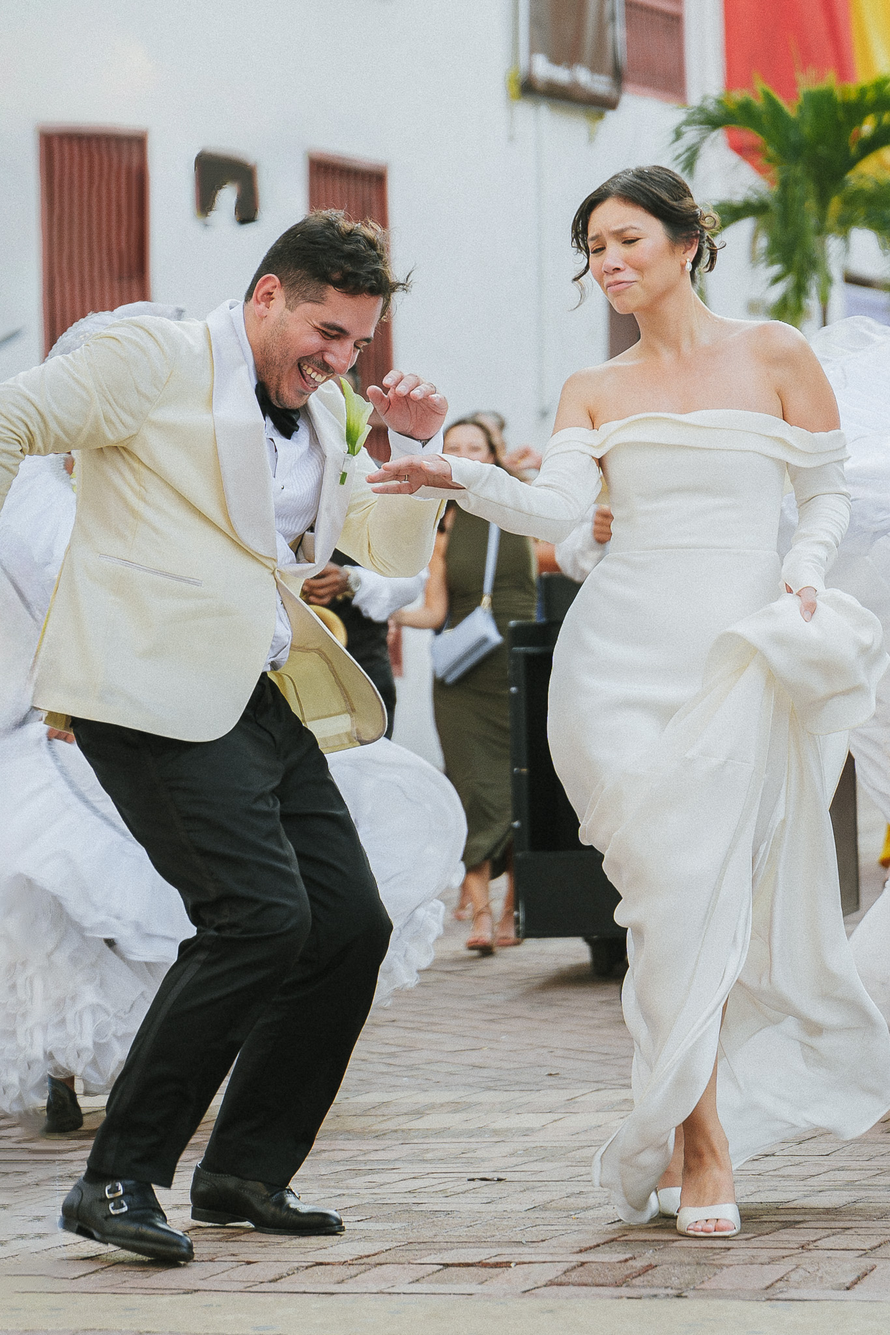
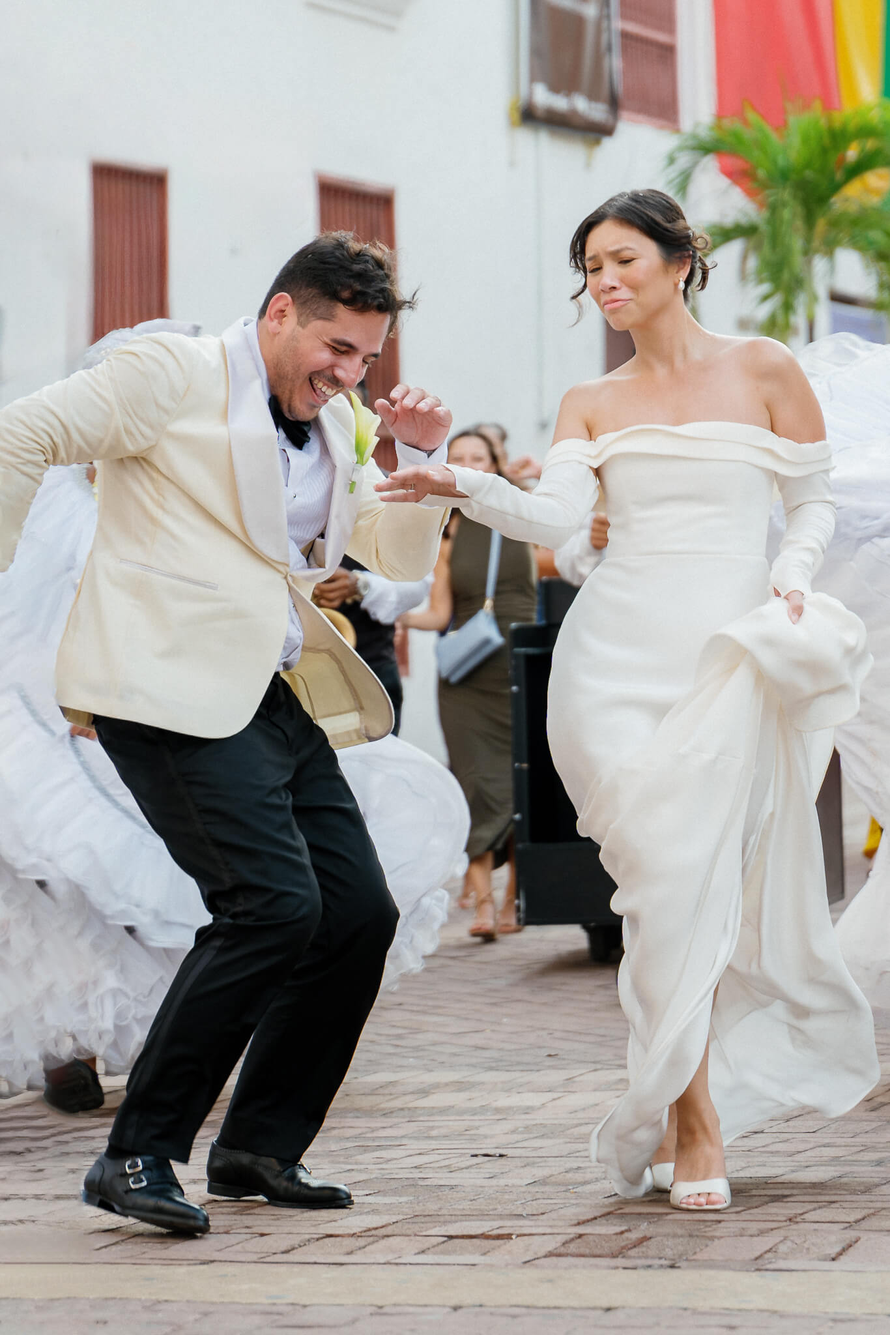
cdac

diff --git a/gallery.html b/gallery.html
@@ -103,7 +103,7 @@
   <img class="work__img" src="img/Weddings/wed305.jpg" fetchpriority=”high” alt="">
 </div>
 <div class="work__photo">
-  <img class="work__img" src="/img/Weddings/wed344-2.jpg" fetchpriority=”high” alt="">
+  <img class="work__img" src="/img/Weddings/wed344-1.jpg" fetchpriority=”high” alt="">
 </div>
 <div class="work__photo">
   <img class="work__img" src="img/Weddings/wed10.jpg" fetchpriority=”high” alt="">

diff --git a/index.html b/index.html
@@ -120,7 +120,7 @@
 
   <div class="category-top">
     <div class="cat-slide-img-topleft">
-      <img src="/img/Weddings/wed344-2.jpg" alt="">
+      <img src="/img/Weddings/wed344-1.jpg" alt="">
     </div>
     <div class="cat-slide-img-topright">
       <img src="/img/Weddings/wed311.jpg" alt="">

diff --git a/styles/components/info.css b/styles/components/info.css
@@ -207,7 +207,7 @@
 .info-faq-img-bot{
   position: relative;
   z-index: 2;
-  max-width: 260px;
+  max-width: 300px;
   top: -2rem;
 }
 
